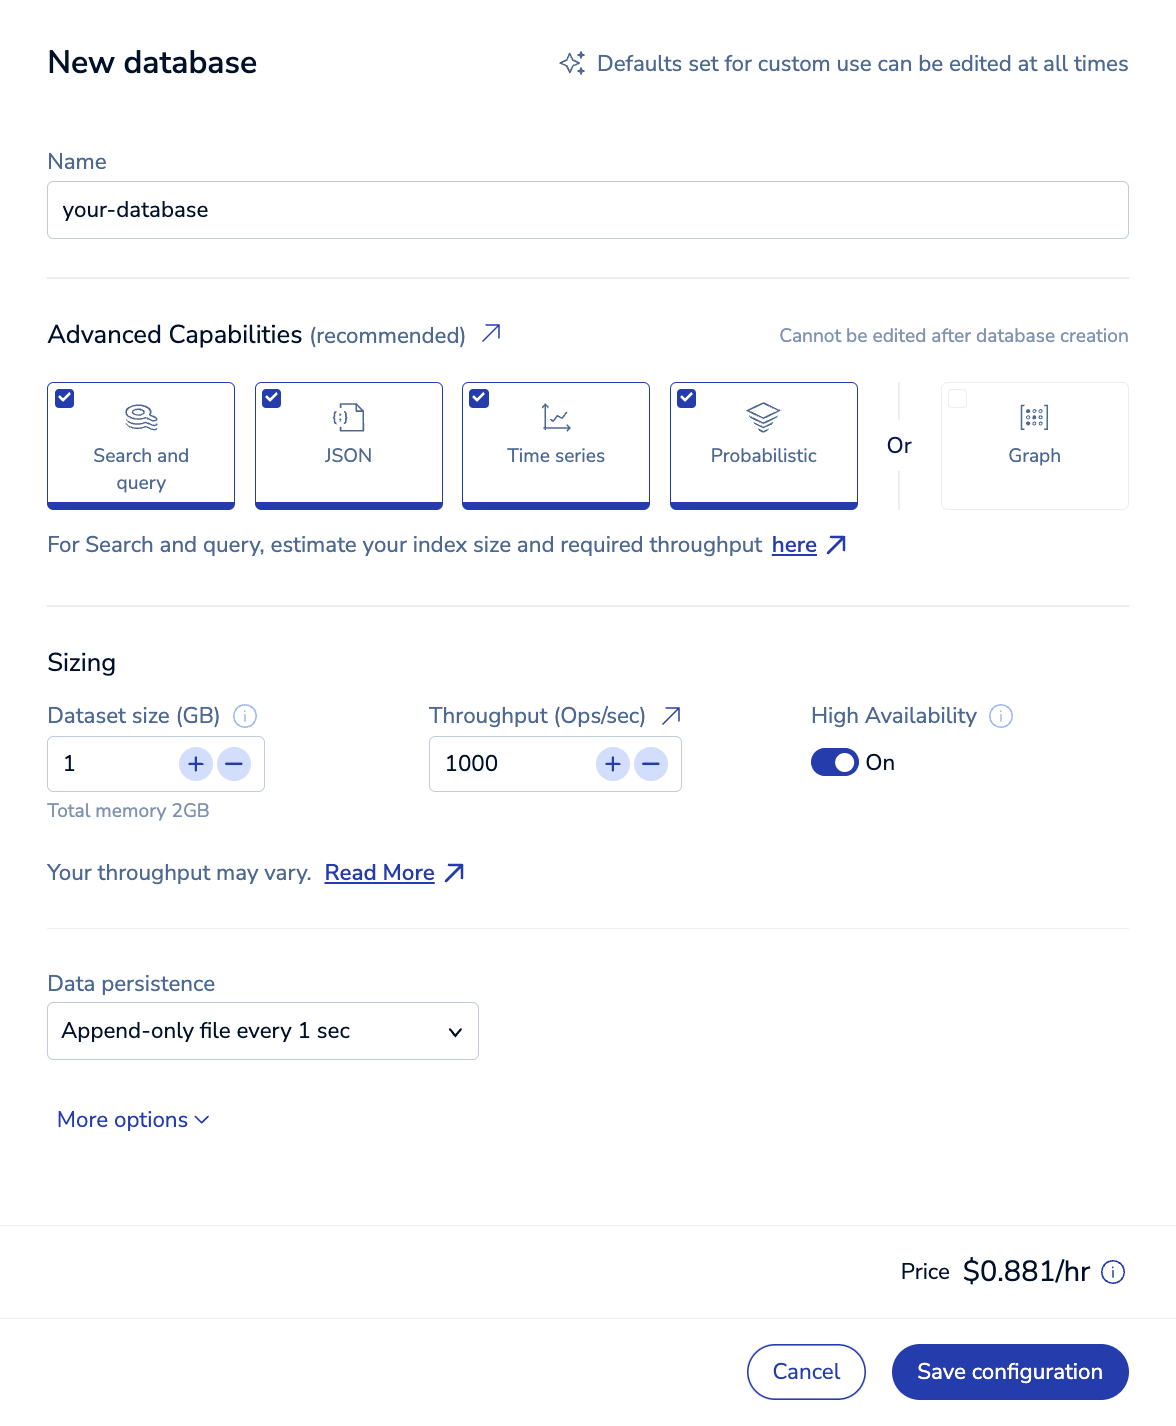
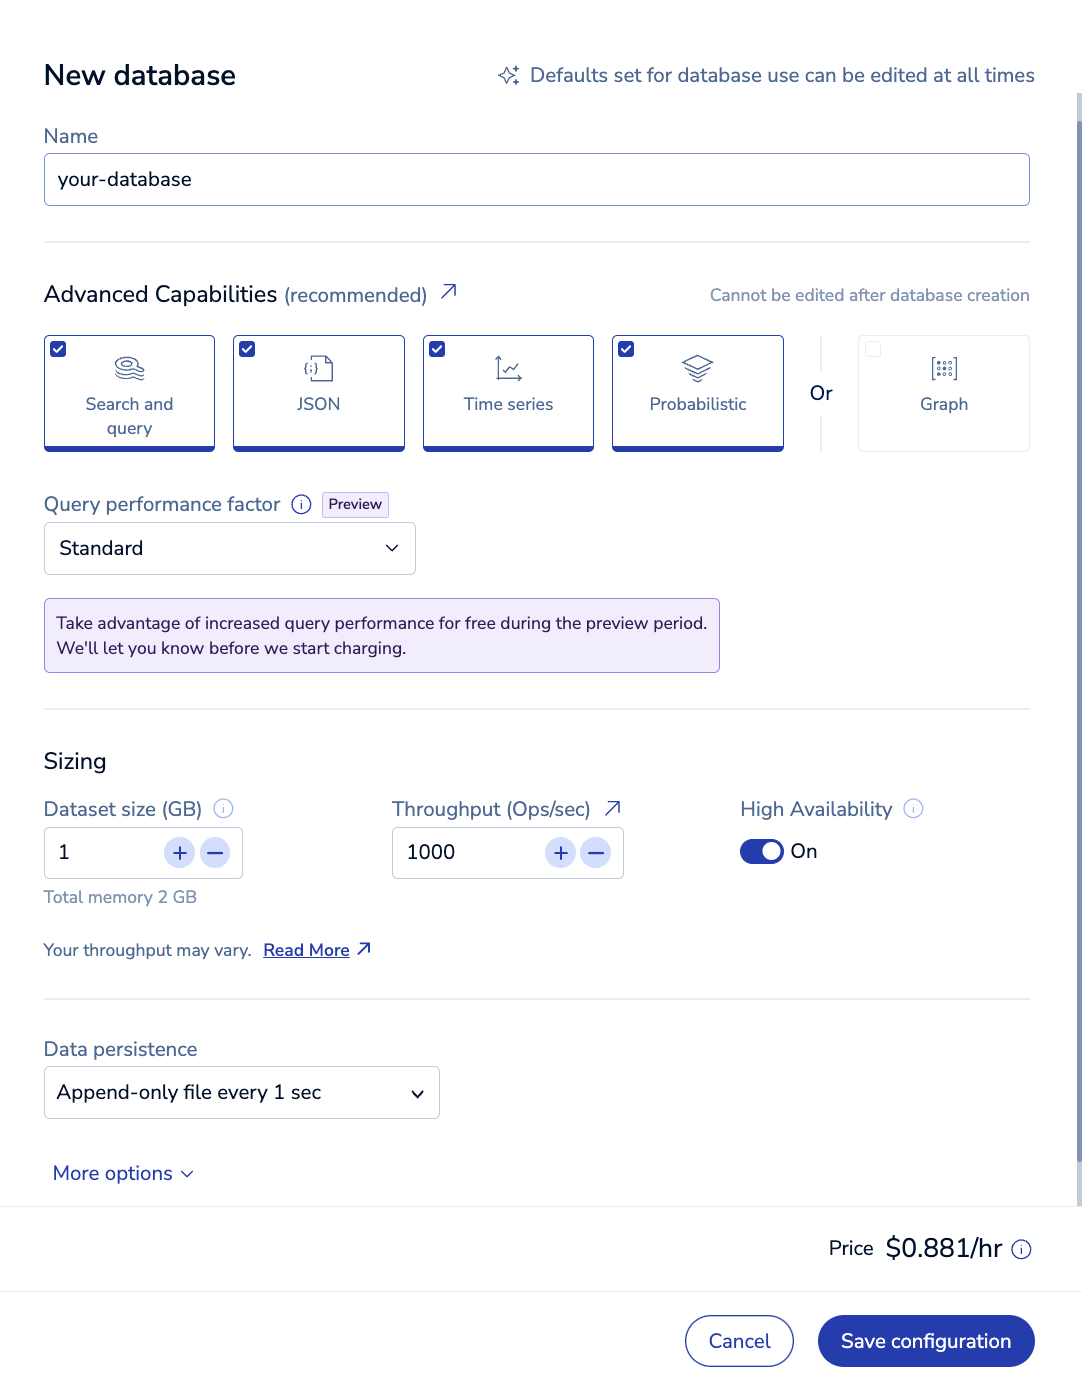
RC: Query Performance Factor (#463)
* Redis 7.4 Preview

* Images

* include improvements

* Specify AWS GCP only

* Collapse 2023 changes

* Move 7.4 to July changelog

* fix relrefs

* highlight hash field expiration

* Query performance factor draft

* Screenshot

* Merge branch 'main' into DOC-3822

* Add recommendation for test

* add create db link

diff --git a/content/operate/rc/databases/create-database/create-pro-database-existing.md b/content/operate/rc/databases/create-database/create-pro-database-existing.md
@@ -48,7 +48,8 @@ The available settings vary according to your subscription plan:
 | **Database name**         | A name for your database (_required_)                                                                                                                                                                                                                                                                             |
 | **Database port**         | Automatically or manually assigns a database port (range: 10000-19999).  You cannot assign a port that is reserved or already in use.                                                                                                                                                                                      |
 | **Type**                  | Controls advanced database capabilities and protocol.  Supported values include _Redis_ and _Memcached_                                                                       |
-| **Advanced capabilities** | Extend core Redis functionality using [advanced capabilities]({{< relref "/operate/oss_and_stack/stack-with-enterprise" >}}).  Redis Cloud supports selected advanced capabilities; for details, see [Redis Enterprise and Redis Stack feature compatibility]({{< relref "/operate/oss_and_stack/stack-with-enterprise/enterprise-capabilities#redis-enterprise-module-support" >}})   |
+| **Advanced capabilities** | Extend core Redis functionality using [advanced capabilities]({{< relref "/operate/oss_and_stack/stack-with-enterprise" >}}).  Redis Cloud supports selected advanced capabilities; for details, see [Redis Enterprise and Redis Stack feature compatibility]({{< relref "/operate/oss_and_stack/stack-with-enterprise/enterprise-capabilities#redis-enterprise-module-support" >}}). <br/> Databases with Search and query have specific sizing requirements, see [Search and query sizing]({{< relref "/operate/rc/databases/configuration/advanced-capabilities#search-and-query-sizing" >}}) for more information.   |
+| **Query performance factor** | *(Search and query databases only)* Adds additional compute power to process your Search and Query workloads and boost your queries per second. See [Search and query sizing]({{< relref "/operate/rc/databases/configuration/advanced-capabilities#search-and-query-sizing" >}}) for more information. |
 | **Supported Protocol(s)** | Choose between RESP2 and RESP3 _(Redis 7.2 only)_. See [Redis serialization protocol]({{< relref "/develop/reference/protocol-spec" >}}#resp-versions) for details                                                                                                                                                   |
 
 ## Scalability section

diff --git a/content/operate/rc/databases/create-database/create-pro-database-new.md b/content/operate/rc/databases/create-database/create-pro-database-new.md
@@ -104,7 +104,8 @@ By default, you're shown basic settings, which include:
 | Database&nbsp;setting | Description |
 |:---------|:-----------|
 | **Name** | A custom name for your database (_required_) |
-| **Advanced Capabilities** | Advanced data types used by the database. Choose from [Search and query]({{< relref "/operate/oss_and_stack/stack-with-enterprise/search" >}}), [JSON]({{< relref "/operate/oss_and_stack/stack-with-enterprise/json" >}}), [Time series]({{< relref "/operate/oss_and_stack/stack-with-enterprise/timeseries" >}}), [Probabilistic]({{< relref "/operate/oss_and_stack/stack-with-enterprise/bloom" >}}), or [Graph (EOL)]({{< relref "/operate/oss_and_stack/stack-with-enterprise/deprecated-features/graph" >}}). |
+| **Advanced Capabilities** | Advanced data types used by the database. Choose from [Search and query]({{< relref "/operate/oss_and_stack/stack-with-enterprise/search" >}}), [JSON]({{< relref "/operate/oss_and_stack/stack-with-enterprise/json" >}}), [Time series]({{< relref "/operate/oss_and_stack/stack-with-enterprise/timeseries" >}}), [Probabilistic]({{< relref "/operate/oss_and_stack/stack-with-enterprise/bloom" >}}), or [Graph (EOL)]({{< relref "/operate/oss_and_stack/stack-with-enterprise/deprecated-features/graph" >}}). <br/> Databases with Search and query have specific sizing requirements, see [Search and query sizing]({{< relref "/operate/rc/databases/configuration/advanced-capabilities#search-and-query-sizing" >}}) for more information. |
+| **Query performance factor** | *(Search and query databases only)* Adds additional compute power to process your Search and Query workloads and boost your queries per second. See [Search and query sizing]({{< relref "/operate/rc/databases/configuration/advanced-capabilities#search-and-query-sizing" >}}) for more information. |
 | **Throughput** | Identifies maximum throughput for the database, which is specified in terms of operations per second (**Ops/sec**). See [Throughput]({{< relref "/operate/rc/databases/configuration/clustering#throughput" >}}) for more information. |
 | **Dataset size (GB)** | The amount of data for your dataset. Specify small sizes as decimals of 1.0&nbsp;GB; example: `0.1` GB (minimum). We calculate the total memory limit for you based on the other settings you choose for your database. |
 | **High Availability** | Indicates whether a replica copy of the database is maintained in case the primary database becomes unavailable.  (Warning: Doubles memory consumption). See [High Availability]({{< relref "/operate/rc/databases/configuration/high-availability" >}}).  |

diff --git a/content/operate/rc/databases/configuration/advanced-capabilities.md b/content/operate/rc/databases/configuration/advanced-capabilities.md
@@ -48,3 +48,19 @@ You can select more than one advanced capability for a database, though there ar
 You don't have to combine capabilities. To remove a selected capability, clear its checkbox.
 
 To learn more, see [Redis Stack]({{< relref "/develop/get-started/" >}}) and [Redis Stack and Redis Enterprise]({{< relref "/operate/oss_and_stack/stack-with-enterprise" >}}).
+
+### Search and query sizing
+
+When you create a Pro database with [Search and Query]({{< relref "/operate/oss_and_stack/stack-with-enterprise/search" >}}), you must consider the sizing and throughput requirements for search and query when you define the dataset size and throughput for your database. 
+
+Use the [Search and query sizing calculator](https://redis.io/redisearch-sizing-calculator/) to estimate your index size and throughput requirements.
+
+- **Dataset Size**: Add the estimated index size from the Sizing calculator to your expected dataset size.
+- **Throughput**: Enter the total estimated throughput from the Sizing calculator when you enter your throughput.
+- **Query performance factor**: The query performance factor adds extra power specifically for search and query. Select a factor to increase your queries per second by that amount.
+
+#### Query performance factor
+
+The query performance factor adds extra compute power specifically for search and query. When you create a database with search and query, you can select a factor to increase your queries per second by that amount.
+
+We recommend testing your application with a test database to see your baseline queries per second and determine how much you want to boost your query performance. After you have determined your queries per second and your desired performance factor, [create a new database]({{< relref "/operate/rc/databases/create-database" >}}) with the desired performance factor and [migrate data]({{< relref "/operate/rc/databases/migrate-databases" >}}) from the test database to your new database.

diff --git a/content/operate/rc/changelog/july-2024.md b/content/operate/rc/changelog/july-2024.md
@@ -1,0 +1,27 @@
+---
+Title: Redis Cloud changelog (July 2024)
+alwaysopen: false
+categories:
+- docs
+- operate
+- rc
+description: New features, enhancements, and other changes added to Redis Cloud during
+  July 2024.
+highlights: Redis 7.4 Preview
+linktitle: July 2024
+weight: 46
+---
+
+## New Features
+
+### Query performance factor preview
+
+When you create a Pro database with [Search and query]({{< relref "/operate/oss_and_stack/stack-with-enterprise/search" >}}) capabilities, you can now choose to boost your query capabilities with the Query performance factor. The query performance factor adds dedicated power specifically for Search and query. For more information, see [Search and query sizing]({{< relref "/operate/rc/databases/configuration/advanced-capabilities#search-and-query-sizing" >}}).
+
+You can take advantage of extra query speed for free during the preview period.
+
+### Redis 7.4 Preview
+
+A preview of Redis 7.4 is now available on [Redis Cloud Essentials databases]({{< relref "/operate/rc/databases/create-database/create-essentials-database" >}}) in select regions on Amazon Web Services and Google Cloud.
+
+Redis 7.4 offers hash field expiration and other feature set improvements. For more information on the changes in Redis 7.4, see the [Redis 7.4 release blog post](REPLACE LINK).

diff --git a/content/operate/rc/changelog/2023/august-2023.md b/content/operate/rc/changelog/2023/august-2023.md
@@ -10,6 +10,8 @@ description: New features, enhancements, and other changes added to Redis Cloud 
 highlights: Redis 7.2 Opt-in for Flexible subscriptions, Triggers and functions preview
 linktitle: August 2023
 weight: 80
+aliases:
+  - /operate/rc/changelog/august-2023
 ---
 
 This changelog lists new features, enhancements, and other changes added to Redis Cloud during August 2023.
@@ -18,7 +20,7 @@ This changelog lists new features, enhancements, and other changes added to Redi
 
 ### Redis 7.2 flexible opt-in
 
-You can opt in to Redis 7.2 on [Flexible subscriptions]({{< relref "/operate/rc/databases/create-database/create-pro-database-new" >}}). Redis 7.2 introduces several changes to existing Redis commands; see the [list of breaking changes]({{< relref "/operate/rc/changelog/june-2023#redis-72-breaking-changes" >}}) published in June's changelog for more details.
+You can opt in to Redis 7.2 on [Flexible subscriptions]({{< relref "/operate/rc/databases/create-database/create-pro-database-new" >}}). Redis 7.2 introduces several changes to existing Redis commands; see the [list of breaking changes]({{< relref "/operate/rc/changelog/2023/june-2023#redis-72-breaking-changes" >}}) published in June's changelog for more details.
 
 ### Triggers and functions preview
 

diff --git a/content/operate/rc/databases/create-database/create-essentials-database.md b/content/operate/rc/databases/create-database/create-essentials-database.md
@@ -35,6 +35,12 @@ This guide shows how to create an Essentials database.
 
 1. Choose a **Cloud Provider** and a **Region**.
 
+    A preview of Redis 7.4 is available for databases in selected regions. Select the **Redis 7.4 preview** toggle to view the regions where you can try Redis 7.4.
+
+    {{<image filename="images/rc/essentials-74-preview.png" alt="Turn on the Redis 7.4 preview toggle.">}}
+    
+    Redis 7.4 offers hash field expiration and other feature set improvements. For more information on the changes in Redis 7.4, see the [Redis 7.4 release notes](REPLACE LINK).
+
 1. The **Type** of database controls the protocol and advanced capabilities. Leave this as **Redis Stack** unless you have a legacy application that uses **Memcached**.
 
     A Redis Stack database gives access to a set of advanced capabilities. For more information, see [Advanced capabilities]({{< relref "/operate/rc/databases/configuration/advanced-capabilities#essentials" >}}).

diff --git a/content/operate/rc/changelog/2023/november-2023.md b/content/operate/rc/changelog/2023/november-2023.md
@@ -24,7 +24,7 @@ See [Fixed plan subscription tiers]({{< relref "/operate/rc/databases/create-dat
 
 You can now use Redis 7.2 on [Fixed subscriptions]({{< relref "/operate/rc/databases/create-database/create-essentials-database" >}}) in `us-east-1` on Amazon Web Services. New Fixed subscriptions created in `us-east-1` will use Redis 7.2, and existing subscriptions will continue to use Redis 6.2.
 
-Redis 7.2 introduces several changes to existing Redis commands; see the [list of breaking changes]({{< relref "/operate/rc/changelog/june-2023#redis-72-breaking-changes" >}}) published in June's changelog for more details.
+Redis 7.2 introduces several changes to existing Redis commands; see the [list of breaking changes]({{< relref "/operate/rc/changelog/2023/june-2023#redis-72-breaking-changes" >}}) published in June's changelog for more details.
 
 ## Deprecations
 

diff --git a/content/operate/rc/changelog/2023/_index.md b/content/operate/rc/changelog/2023/_index.md
@@ -1,0 +1,17 @@
+---
+Title: Redis Cloud changelog (2023)
+alwaysopen: false
+categories:
+- docs
+- operate
+- rc
+description: All Redis Cloud changelogs from 2023.
+hideListLinks: true
+linktitle: 2023
+highlights: All Redis Cloud changelogs from 2023.
+weight: 95
+---
+
+Select a month from the following table to see a more detailed changelog for that month:
+
+{{<table-children columnNames="Month,Major changes" columnSources="LinkTitle,highlights" enableLinks="LinkTitle">}}

diff --git a/content/operate/rc/changelog/2023/april-2023.md b/content/operate/rc/changelog/2023/april-2023.md
@@ -10,6 +10,8 @@ description: New features, enhancements, and other changes added to Redis Cloud 
 highlights: Exposed advanced capabilities when creating a new database
 linktitle: April 2023
 weight: 87
+aliases:
+  - /operate/rc/changelog/april-2023
 ---
 
 This changelog lists new features, enhancements, and other changes added to Redis Cloud during April 2023.

diff --git a/content/operate/rc/changelog/2023/may-2023.md b/content/operate/rc/changelog/2023/may-2023.md
@@ -10,6 +10,8 @@ description: New features, enhancements, and other changes added to Redis Cloud 
 highlights: Cloud API Fixed plans support, Active-Active ACL roles
 linktitle: May 2023
 weight: 86
+aliases:
+  - /operate/rc/changelog/may-2023
 ---
 
 This changelog lists new features, enhancements, and other changes added to Redis Cloud during May 2023.

diff --git a/content/operate/rc/changelog/2023/june-2023.md b/content/operate/rc/changelog/2023/june-2023.md
@@ -10,6 +10,8 @@ description: New features, enhancements, and other changes added to Redis Cloud 
 highlights: Redis 7.2 opt-in for Fixed subscriptions
 linktitle: June 2023
 weight: 84
+aliases:
+  - /operate/rc/changelog/june-2023
 ---
 
 This changelog lists new features, enhancements, and other changes added to Redis Cloud during June 2023.

diff --git a/content/operate/rc/changelog/2023/february-2023.md b/content/operate/rc/changelog/2023/february-2023.md
@@ -10,6 +10,8 @@ description: New features, enhancements, and other changes added to Redis Cloud 
 highlights: Private Service Connect
 linktitle: February 2023
 weight: 89
+aliases:
+  - /operate/rc/changelog/february-2023
 ---
 
 This changelog lists new features, enhancements, and other changes added to Redis Cloud during February 2023.
